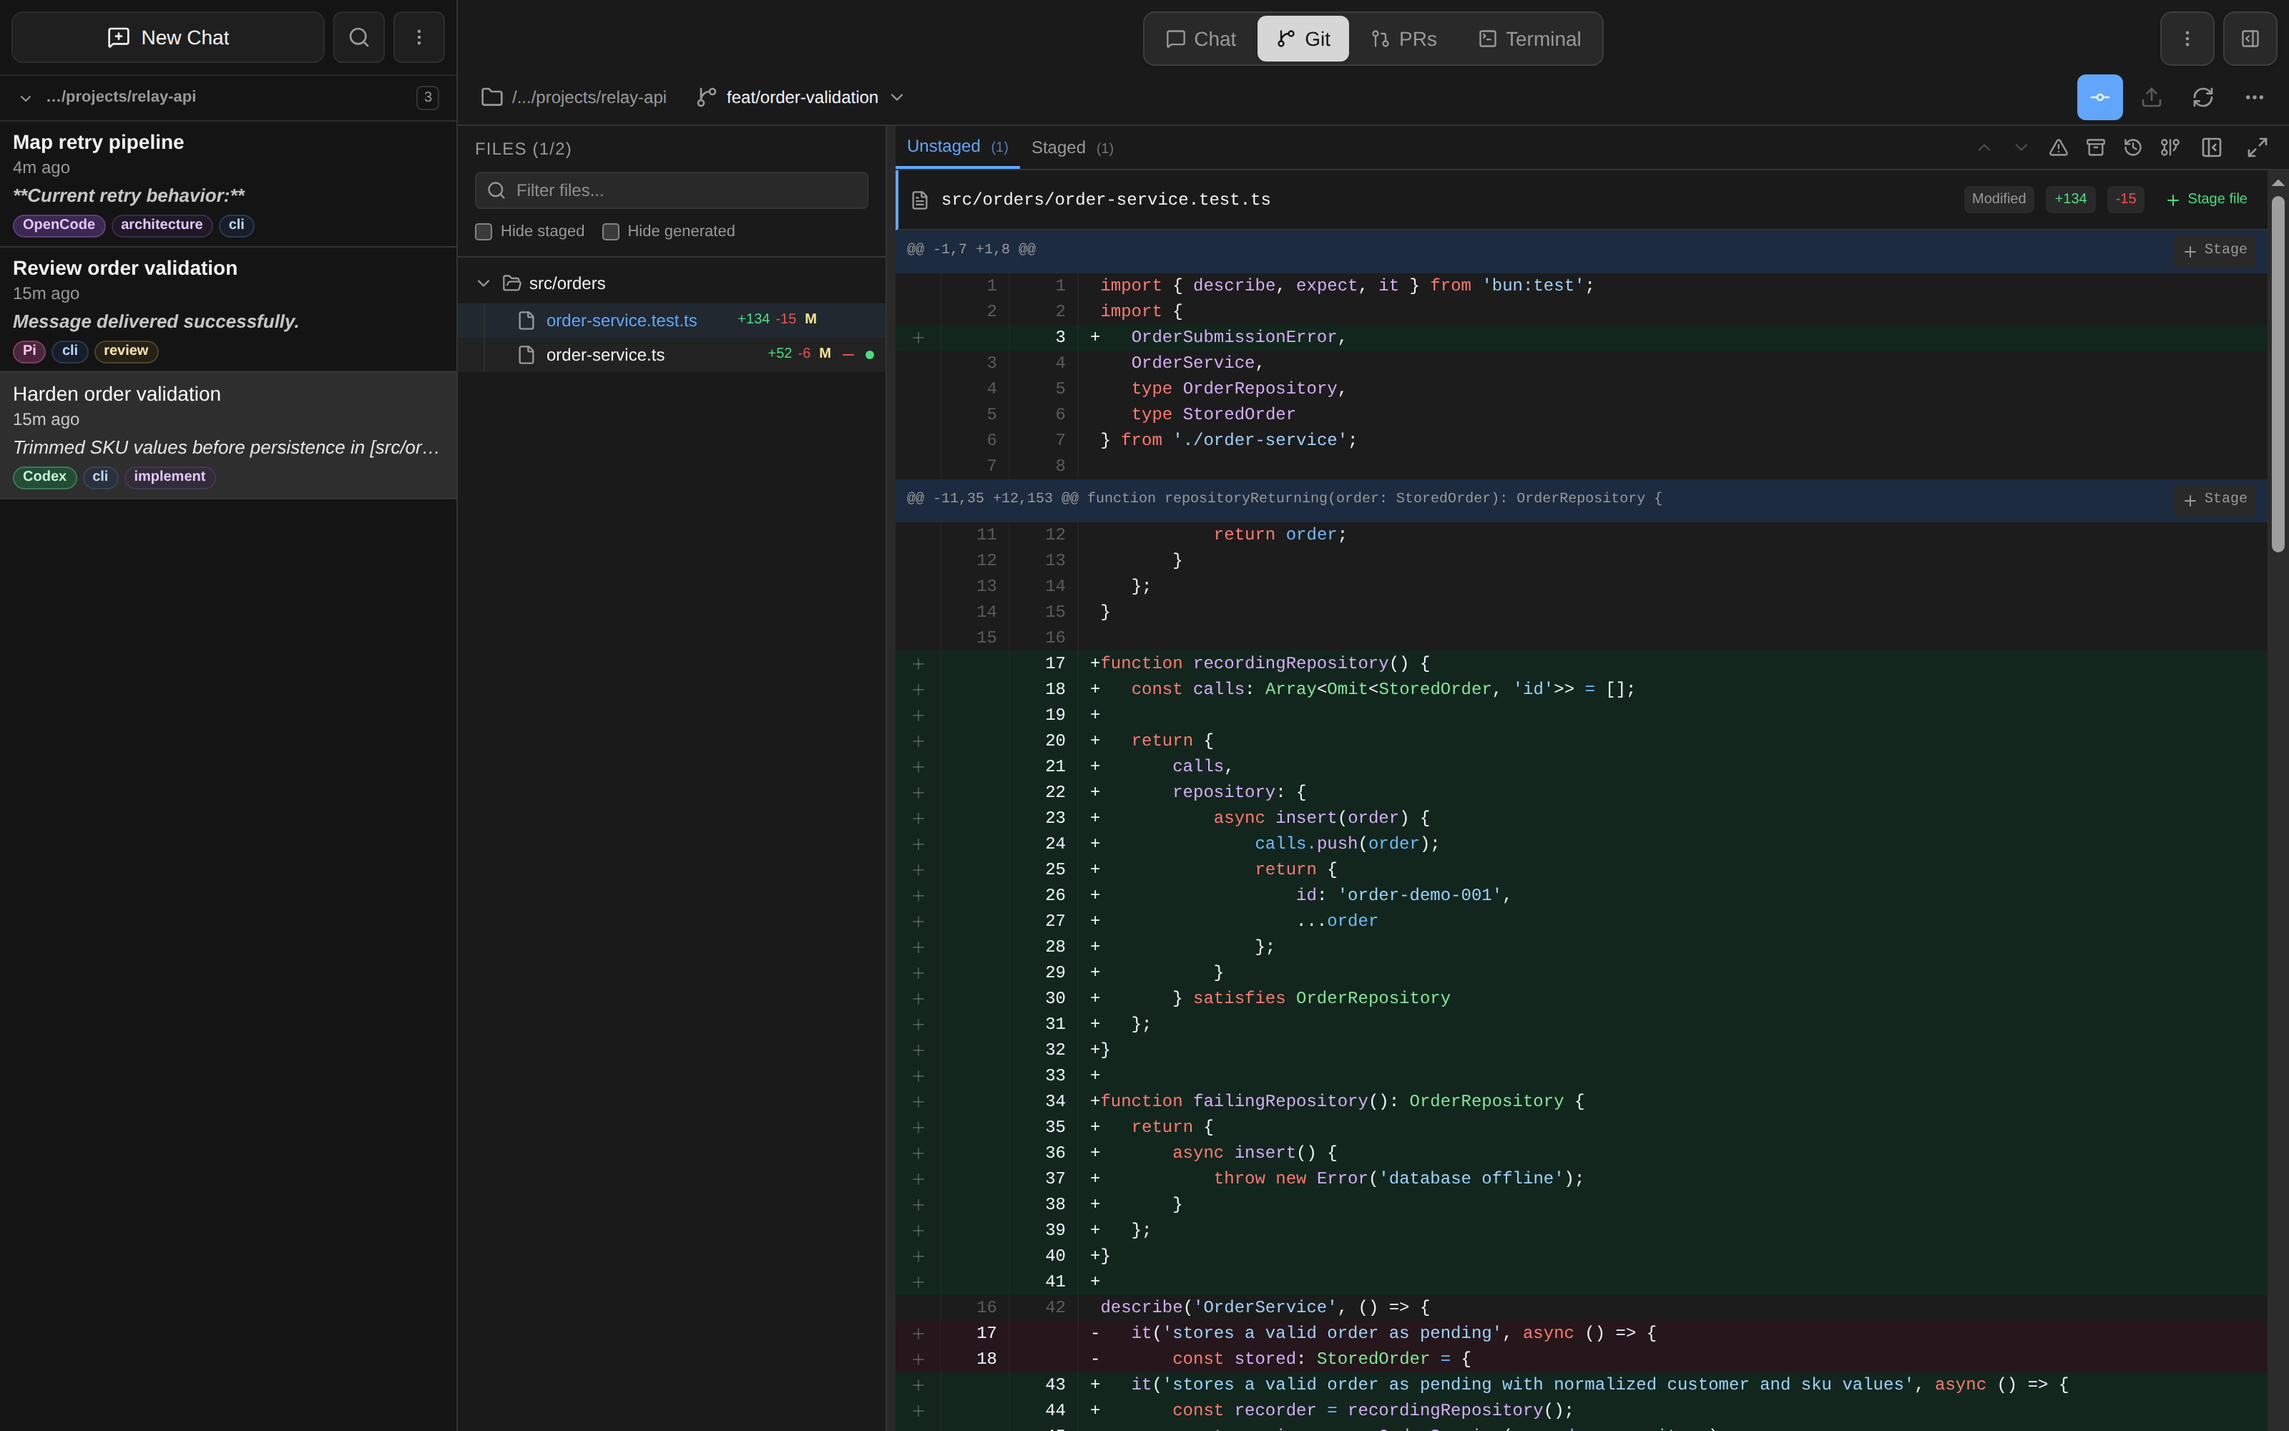
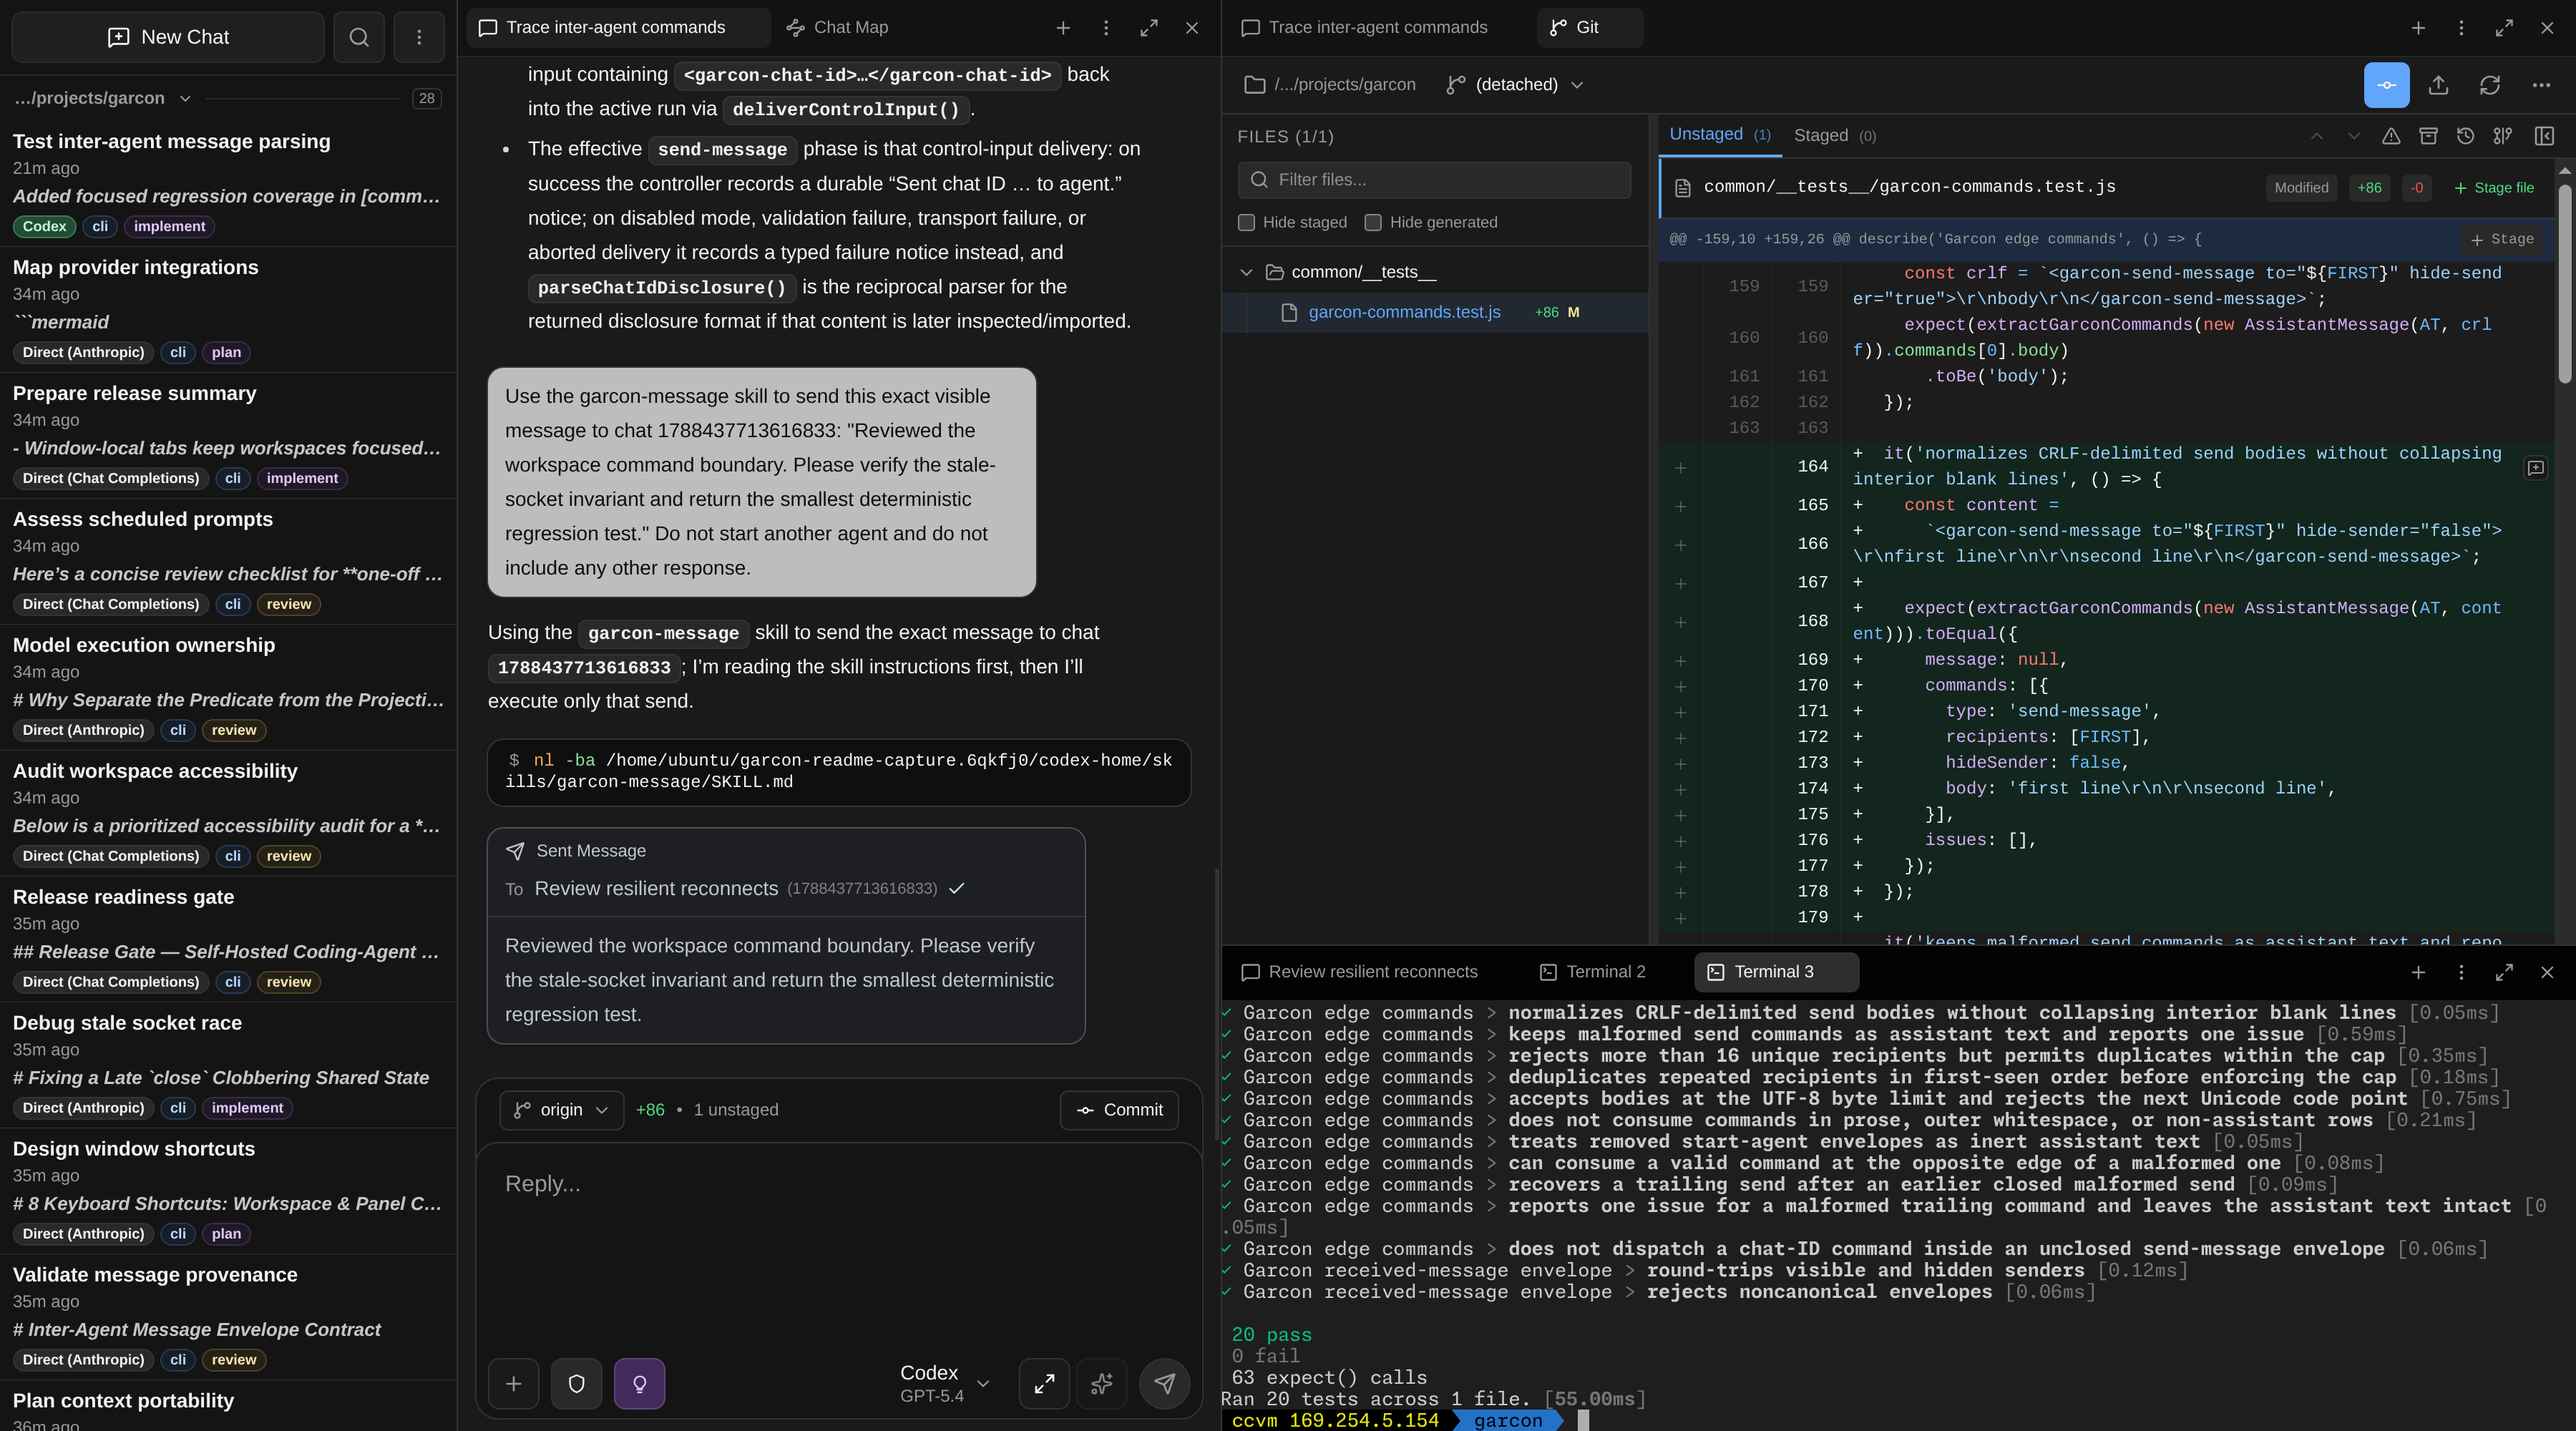
docs: refresh README and product screenshots

diff --git a/README.md b/README.md
@@ -15,11 +15,11 @@
 
 <p align="center">
   <a href="screenshots/readme-parallel-agents-dark.png">
-    <img src="screenshots/readme-parallel-agents-dark.png" alt="A dark Garcon workspace with Pi invoking the garcon-chat skill beside Codex applying the delivered order-validation review finding" width="100%" />
+    <img src="screenshots/readme-parallel-agents-dark.png" alt="A dark Garcon workspace with four tiled windows showing two collaborating agent chats, Chat Map, and Git with window-local tabs" width="100%" />
   </a>
 </p>
 
-<p align="center"><em>Pi routes a review finding through garcon-chat; Codex receives the provenance-prefixed message, applies the fix, and runs the tests beside it.</em></p>
+<p align="center"><em>Arrange the whole development loop as window-local tabs: agent chats, Chat Map, Git, files, terminals, history, and pull requests.</em></p>
 
 Agents, terminals, files, Git, and pull request commands run on the Garcon host under your account, using the agent logins and model endpoints you configure.
 
@@ -48,35 +48,36 @@ The terminal is excellent for one focused agent session. It gets harder when sev
 
 Garcon keeps the full loop together:
 
-- **Run work in parallel.** Keep up to four sessions in resizable panes, compare different agents or approaches, and continue or fork context where the provider supports it.
+- **Build the workspace around the task.** Tile up to four resizable windows, keep each window's chats, files, terminals, Git, history, pull requests, and Chat Map in local tabs, then drag tabs or chats between windows.
 - **Steer without waiting.** Queue the next instruction, interrupt or redirect the active turn, approve tool use, answer agent questions, pause the queue, or stop work in place.
 - **Review the real change.** Browse and edit files, use a terminal, inspect rendered reasoning, tool calls, edits, and diagrams, then stage individual lines, hunks, files, or folders.
-- **Find and organize the work.** Search chat metadata and indexed transcript content, save filters, tag, pin, archive, share read-only snapshots, and schedule one-off or recurring prompts.
-- **Move context deliberately.** Export complete Markdown or XML transcripts, create token-budgeted handoff artifacts, or send a task to another agent without hiding the exchange.
+- **Coordinate agents visibly.** Send provenance-labeled messages between chats, record delegated parents, and navigate fork, handoff, and delegation lineage in Chat Map.
+- **Find and organize the work.** Group chats by activity or project, search metadata and indexed transcripts, save filters, tag, pin, archive, share read-only snapshots, and schedule prompts.
+- **Move context deliberately.** Fork where the provider supports it, export complete Markdown or XML transcripts, create token-budgeted handoff artifacts, or delegate into a fresh chat.
 - **Close the loop from anywhere.** Work with branches, worktrees, history, pull requests, commits, and pushes from desktop or phone, with optional Telegram alerts when attention is needed.
 
 ## See It In Action
 
-<p align="center"><strong>Redirect a running turn</strong></p>
+<p align="center"><strong>Agents that can coordinate</strong></p>
 
 <p align="center">
   <a href="screenshots/readme-agent-steering.png">
-    <img src="screenshots/readme-agent-steering.png" alt="A light Garcon workspace with an active Codex verification turn and a queued follow-up offering Steer, Send now, and Pause controls" width="100%" />
+    <img src="screenshots/readme-agent-steering.png" alt="A light Garcon workspace with two agent chats showing a provenance-labeled inter-agent review message and the resulting response" width="100%" />
   </a>
 </p>
 
-<p align="center">Add the next instruction while tests run, or steer and interrupt immediately when the plan changes.</p>
+<p align="center">An agent can discover its chat ID and message up to 16 peers. Garcon preserves the sender, transcript, and delivery outcome, whether the target is idle or already running.</p>
 
 <table>
   <tr>
     <td width="70%" align="center">
       <a href="screenshots/readme-git-review.png">
-        <img src="screenshots/readme-git-review.png" alt="Garcon's dark Git workbench showing staged and unstaged TypeScript files, a large diff, and line-level staging controls" width="100%" />
+        <img src="screenshots/readme-git-review.png" alt="Garcon's dark windowed workspace showing the Git workbench beside an agent chat and terminal" width="100%" />
       </a>
     </td>
     <td width="30%" align="center">
       <a href="screenshots/readme-mobile-workspace.png">
-        <img src="screenshots/readme-mobile-workspace.png" alt="A light mobile Garcon session showing an active Codex turn, queued follow-up, steering controls, diff counts, and workspace navigation" width="100%" />
+        <img src="screenshots/readme-mobile-workspace.png" alt="A mobile Garcon workspace showing a detailed agent chat, workspace navigation, and active task context" width="100%" />
       </a>
     </td>
   </tr>
@@ -104,11 +105,12 @@ Use an existing agent login or subscription where its CLI supports one, or confi
 
 ## Automate And Delegate
 
-Garcon's CLI starts or resumes ordinary visible chats through an already-running server. It also exposes bounded status, complete transcript export, token-budgeted handoff artifacts, asynchronous delivery, active-turn steering, presentation-only rows, and Stop.
+Garcon's CLI starts or resumes ordinary visible chats through an already-running server. It also records delegated parentage, queries the live agent and model catalog, observes exact turns, exports transcripts, builds bounded handoff artifacts, appends presentation-only rows, delivers asynchronous work, steers active turns, and stops execution.
 
 ```bash
-# Start a visible agent chat.
+# Start a visible delegated chat and record its lineage in Chat Map.
 bun cli/main.ts --workspace default --cwd /path/to/project \
+  --parent 1785337200123456 \
   --agent codex --model gpt-5.4 --permissions acceptEdits \
   "Implement the validation and run its focused tests."
 
@@ -116,17 +118,19 @@ bun cli/main.ts --workspace default --cwd /path/to/project \
 bun cli/main.ts --workspace default send-async 1785337200123456 \
   --allow-steer "Address the review finding and rerun the tests."
 
-# Build a bounded, auditable context artifact for another model.
-bun cli/main.ts --workspace default handoff 1785337200123456 \
-  --context-window-size 131072 --output handoff.xml
+# Observe the chat or export its complete authoritative transcript.
+bun cli/main.ts --workspace default status 1785337200123456 --messages 20
+bun cli/main.ts --workspace default export 1785337200123456 \
+  --format xml --output transcript.xml
 ```
 
 See the [CLI and server guide](docs/cli.md) for server configuration, catalog discovery, message presentation, reattachment, status, export, handoff, queue behavior, and connection rules. `bun run build-exe` produces `garcon-cli-linux-x64` and `garcon-cli-darwin-arm64` when a repository checkout is not the desired invocation path.
 
-The companion [cfal/garcon-skills](https://github.com/cfal/garcon-skills) repository makes the same control plane available to coding agents:
+The companion [cfal/garcon-skills](https://github.com/cfal/garcon-skills) repository exposes this control plane to Claude, Codex, Pi, and other skill-aware agents:
 
-- `garcon-agent` validates live agent, provider, model, permission, and effort choices before starting or resuming a Garcon chat.
-- `garcon-chat` sends a provenance-prefixed message between explicit chat IDs with `send-async --allow-steer`, returning as soon as Garcon accepts it.
+- `garcon-agent` validates live agent, provider, model, permission, and effort choices before starting or resuming a visible chat.
+- `garcon-message` sends in-band messages between one or many existing chats, visible by default and anonymous only when explicitly requested.
+- `garcon-amp` surrounds a durable parent agent with fresh Oracle, Finder, Librarian, and Reporter specialists for review, repository retrieval, external evidence, and transcript extraction.
 
 ```bash
 git clone https://github.com/cfal/garcon-skills.git
@@ -134,7 +138,9 @@ cd garcon-skills
 ./link.sh
 ```
 
-The current skills invoke `bun /garcon/cli/main`; adjust that path when Garcon is checked out elsewhere. Delegated turns inherit the target chat's saved execution settings and can edit files or run tools wherever that chat already permits them.
+The skills resolve `garcon-cli` from `PATH`, `$HOME/garcon`, or `/garcon`. Inter-agent messages remain ordinary, auditable transcript input; delegated chats keep explicit lineage instead of relying on a hidden side channel.
+
+Under the hood, `<garcon-get-chat-id />` gives an agent its runtime identity and `<garcon-send-message>` delivers a bounded message to up to 16 explicit chat IDs. Garcon infers the visible sender, supports deliberate anonymity, and creates no automatic replies.
 
 ## Trusted Local Use
 
